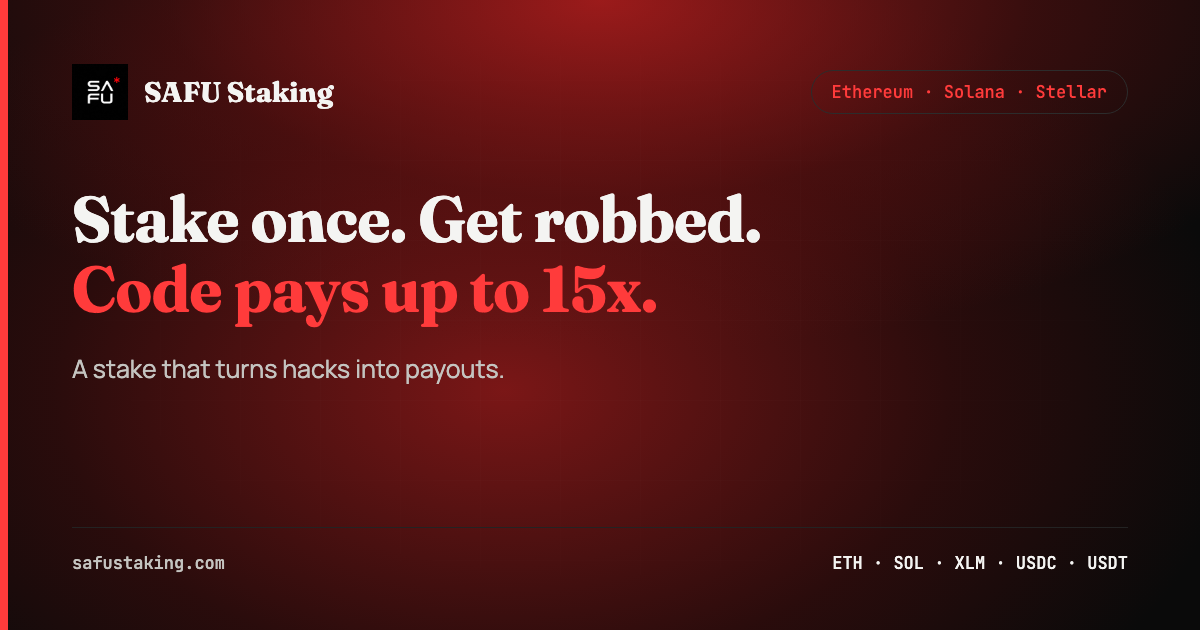
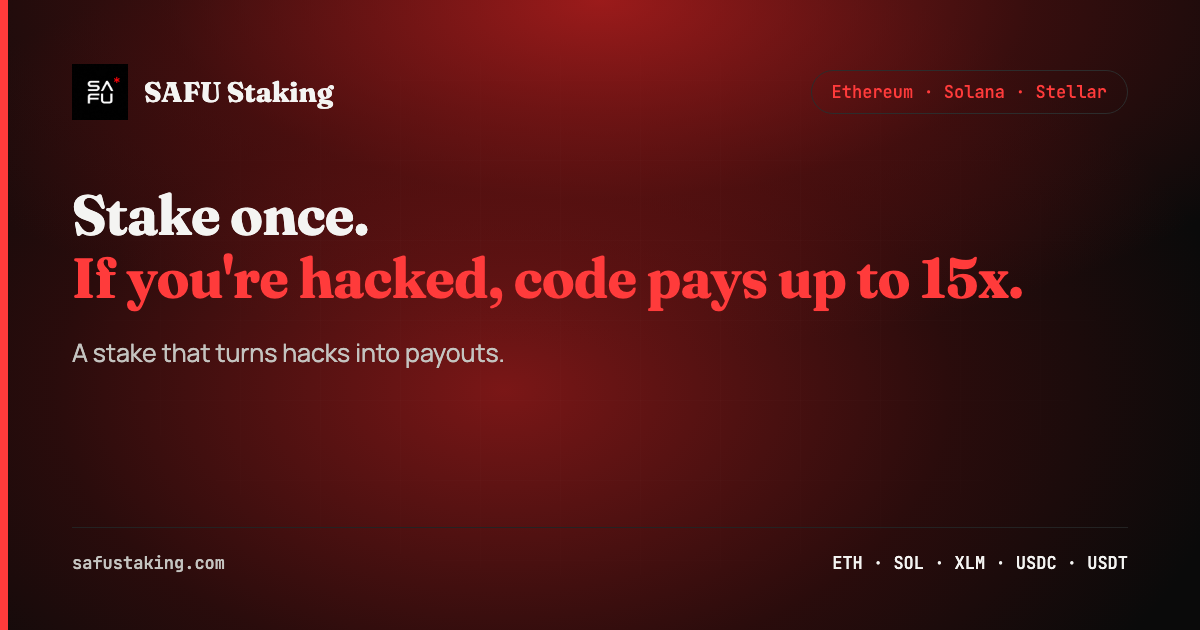
Headline A: 'Stake once. If you're hacked, code pays up to 15x.' (old line read as a command); new preview image

Changed region(s): [[0.0617, 0.3016, 0.8633, 0.5127], [0.0617, 0.5429, 0.4317, 0.6032]]

diff --git a/index.html b/index.html
@@ -13,24 +13,24 @@
       rel="stylesheet"
     />
     <title>SAFU Staking | A stake that turns hacks into payouts</title>
-    <meta name="description" content="Stake once. Get robbed. Code pays up to 15x. Stake USDC in one pool on Stellar and cover up to three wallets on Ethereum, Solana or Stellar. If crypto is stolen from one, or it's wrongly liquidated, fixed rules pay you back in USDC." />
+    <meta name="description" content="Stake once. If you're hacked, code pays up to 15x. Stake USDC in one pool on Stellar and cover up to three wallets on Ethereum, Solana or Stellar. If crypto is stolen from one, or it's wrongly liquidated, fixed rules pay you back in USDC." />
     <meta name="theme-color" content="#0a0a0a" />
     <link rel="canonical" href="https://safustaking.com/" />
     <meta property="og:type" content="website" />
     <meta property="og:url" content="https://safustaking.com/" />
     <meta property="og:site_name" content="SAFU Staking" />
     <meta property="og:title" content="SAFU Staking | A stake that turns hacks into payouts" />
-    <meta property="og:description" content="Stake once. Get robbed. Code pays up to 15x. Stake USDC in one pool on Stellar and cover up to three wallets on Ethereum, Solana or Stellar. If crypto is stolen from one, or it's wrongly liquidated, fixed rules pay you back in USDC." />
-    <meta property="og:image" content="https://safustaking.com/og-image.png?v=20261116" />
+    <meta property="og:description" content="Stake once. If you're hacked, code pays up to 15x. Stake USDC in one pool on Stellar and cover up to three wallets on Ethereum, Solana or Stellar. If crypto is stolen from one, or it's wrongly liquidated, fixed rules pay you back in USDC." />
+    <meta property="og:image" content="https://safustaking.com/og-image.png?v=20261116b" />
     <meta property="og:image:width" content="1200" />
     <meta property="og:image:height" content="630" />
-    <meta property="og:image:alt" content="SAFU Staking: Stake once. Get robbed. Code pays up to 15x. A stake that turns hacks into payouts." />
+    <meta property="og:image:alt" content="SAFU Staking: Stake once. If you're hacked, code pays up to 15x. A stake that turns hacks into payouts." />
     <meta name="twitter:card" content="summary_large_image" />
     <meta name="twitter:site" content="@safu_staking" />
     <meta name="twitter:title" content="SAFU Staking | A stake that turns hacks into payouts" />
-    <meta name="twitter:description" content="Stake once. Get robbed. Code pays up to 15x. Stake USDC in one pool on Stellar and cover up to three wallets on Ethereum, Solana or Stellar. If crypto is stolen from one, or it's wrongly liquidated, fixed rules pay you back in USDC." />
-    <meta name="twitter:image" content="https://safustaking.com/og-image.png?v=20261116" />
-    <meta name="twitter:image:alt" content="SAFU Staking: Stake once. Get robbed. Code pays up to 15x. A stake that turns hacks into payouts." />
+    <meta name="twitter:description" content="Stake once. If you're hacked, code pays up to 15x. Stake USDC in one pool on Stellar and cover up to three wallets on Ethereum, Solana or Stellar. If crypto is stolen from one, or it's wrongly liquidated, fixed rules pay you back in USDC." />
+    <meta name="twitter:image" content="https://safustaking.com/og-image.png?v=20261116b" />
+    <meta name="twitter:image:alt" content="SAFU Staking: Stake once. If you're hacked, code pays up to 15x. A stake that turns hacks into payouts." />
   </head>
   <body>
     <div id="root"></div>

diff --git a/README.md b/README.md
@@ -1,6 +1,6 @@
 # SAFU Staking Multichain
 
-**A stake that turns hacks into payouts.** Stake once. Get robbed. Code pays up to 15x.
+**A stake that turns hacks into payouts.** Stake once. If you're hacked, code pays up to 15x.
 
 One USDC pool on Stellar that pays you back when crypto is stolen from a wallet you registered, or when a loan in one of those wallets is wrongfully liquidated. Covered wallets can sit on Ethereum, Solana or Stellar. Payouts follow rules set in advance, and nobody votes on a claim.
 
